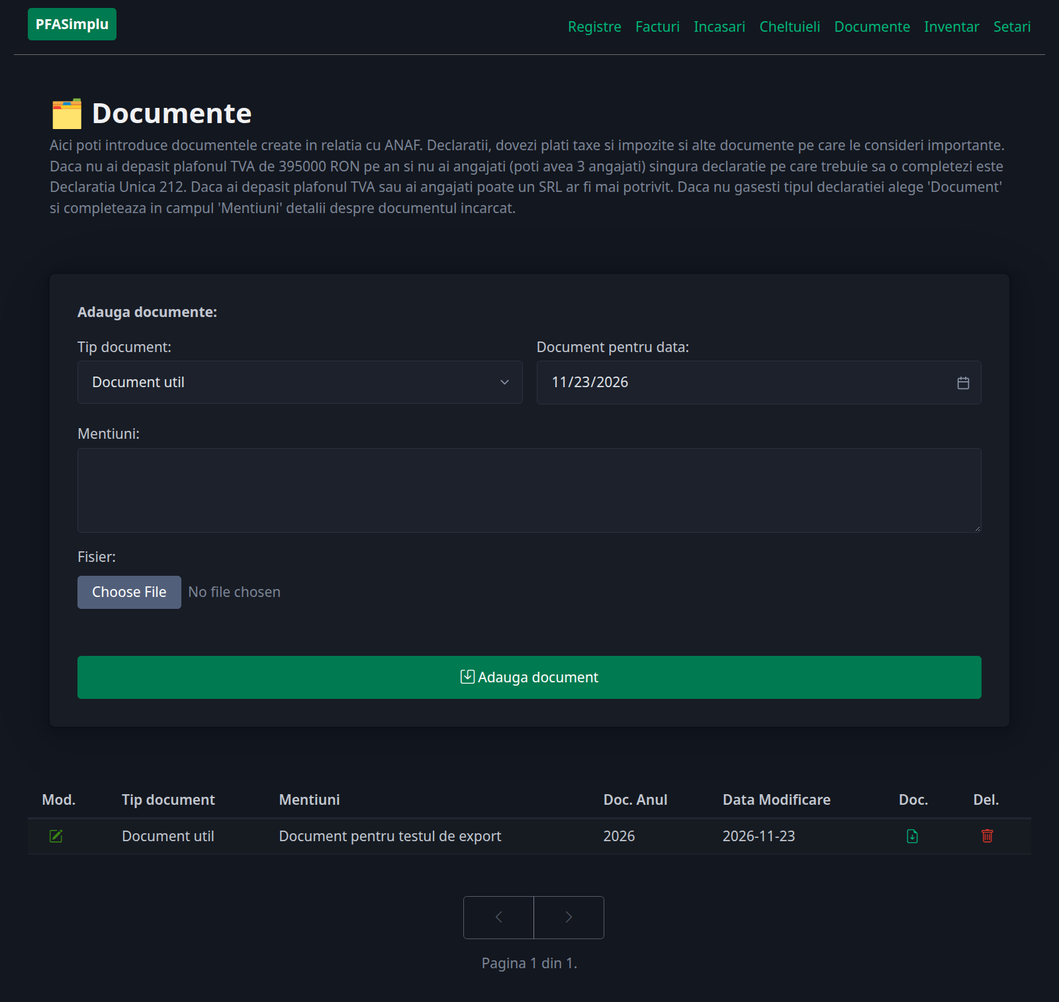
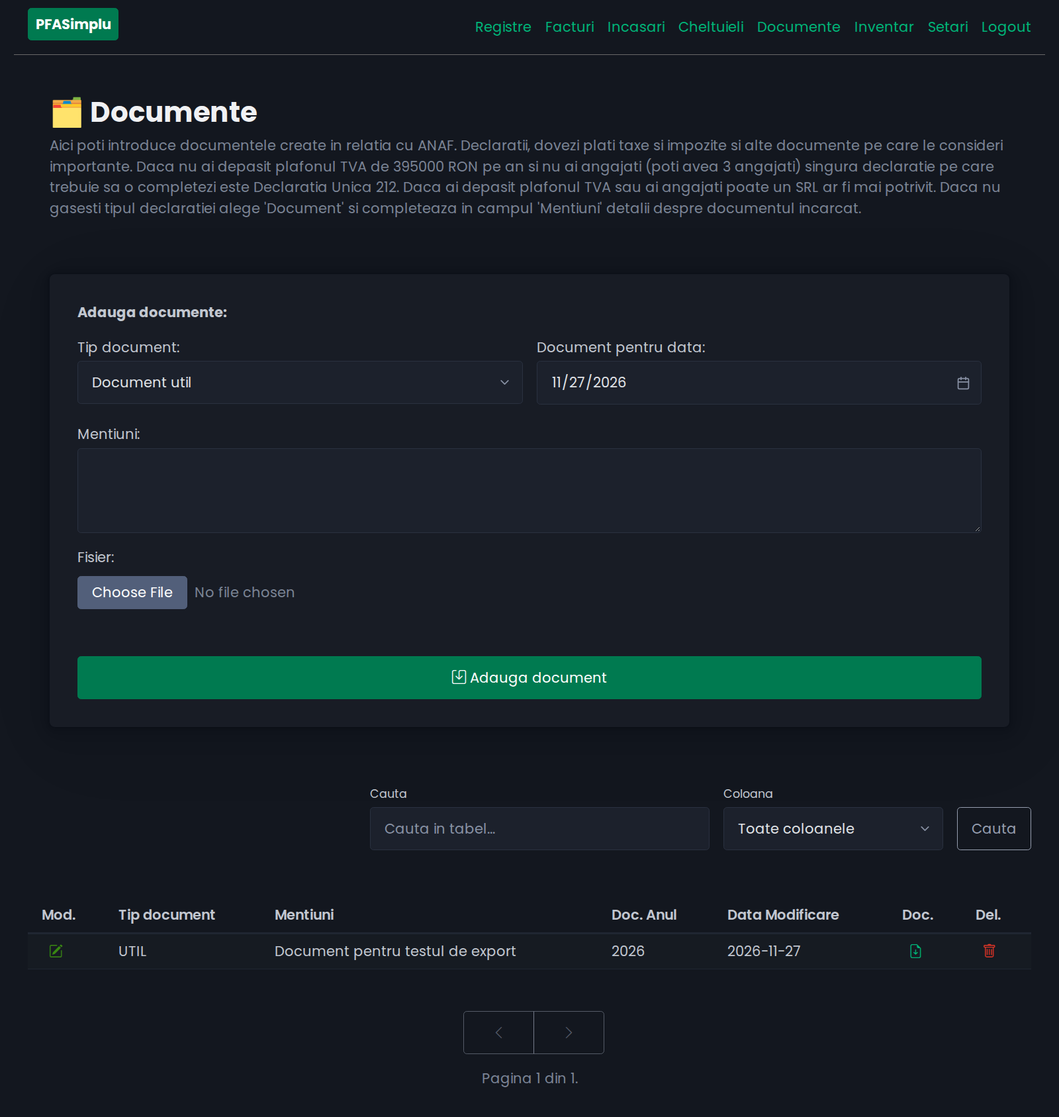
update readme pics

diff --git a/README.md b/README.md
@@ -2,7 +2,7 @@
 
 ![GitHub all releases](https://img.shields.io/github/downloads/ClimenteA/PFASimplu/total?label=descarcari&style=for-the-badge)
 
-Aplicatie pentru simplificarea gestiunii contabilitatii facuta in partida simpla (versiunea 3).  
+Aplicatie pentru simplificarea gestiunii contabilitatii facuta in partida simpla (versiunea 3).
 
 <!-- START doctoc generated TOC please keep comment here to allow auto update -->
 <!-- DON'T EDIT THIS SECTION, INSTEAD RE-RUN doctoc TO UPDATE -->
@@ -22,6 +22,7 @@ Aplicatie pentru simplificarea gestiunii contabilitatii facuta in partida simpla
   - [Servicii cumparate din UE / non-UE (taxare inversa)](#servicii-cumparate-din-ue--non-ue-taxare-inversa)
 - [Documente](#documente)
 - [TVA intracomunitar: D301, D390 si Jurnal de cumparari](#tva-intracomunitar-d301-d390-si-jurnal-de-cumparari)
+  - [D390 VIES pentru clienti UE (vanzari)](#d390-vies-pentru-clienti-ue-vanzari)
 - [Inventar](#inventar)
 - [Registre](#registre)
 - [Actualizare aplicatie](#actualizare-aplicatie)
@@ -42,6 +43,7 @@ Aplicatie pentru simplificarea gestiunii contabilitatii facuta in partida simpla
 - Impozitare in sistem real (fara norma de venit);
 - Nu au depasit pragul TVA (venituri sub 395k RON pe an);
 - Sunt prestatori de servicii;
+- Incaseaza numerar doar B2B maximum 5k/zi ron de la un client SRL/PFA (nu au casa de marcat);
 
 Aplicatia te ajuta sa:
 - creezi facturi: e-factura (fara TVA), facturi PDF in mai multe limbi si valute;
@@ -50,6 +52,7 @@ Aplicatia te ajuta sa:
 - arhivezi declaratiile depuse la ANAF;
 - calculeaza automat taxele si impozitele datorate in functie de incasari/cheltuieli;
 - calculeaza automat TVA-ul datorat pentru servicii cumparate din UE/non-UE (taxare inversa) si genereaza declaratiile D301/D390 + Jurnalul de cumparari, daca ai cod special de TVA intracomunitar (art. 317);
+- genereaza D390 VIES (tip P) si Jurnalul de vanzari pentru facturile emise catre clienti UE marcati „Client UE VIES";
 
 
 ## Poate aplicatia sa faca X,Y,Z?
@@ -201,21 +204,23 @@ Docker pornit la boot, aplicatia revine singura dupa restartul calculatorului
 
 Ordinea conteaza: aplicatia foloseste datele din `Setari` in toate celelalte pagini (antetul facturilor, IBAN-ul in moneda facturii, calculele de taxe, IBAN-ul trezoreriei pentru TVA).
 
+Toate tabelele (Facturi, Incasari, Cheltuieli, Documente, Inventar) au un formular de cautare `Cauta` / `Coloana` si paginare cate **20 de inregistrari pe pagina** - cautarea se face pe coloana aleasa sau pe toate coloanele, iar filtrele active se pastreaza la paginare. Butoanele CSV/XLSX descarca **toate** inregistrarile contului, nu doar pagina curenta. Coloana `Data Modificare` arata data ultimei modificari a inregistrarii.
+
 **1. Prima deschidere - completeaza Setari**
 
-Deschide aplicatia, autentifica-te (sau inregistreaza-te la prima folosire) si mergi intai in pagina `Setari`: numele PFA-ului, CIF, adresa, localitatea (aleasa din sugestii), conturile IBAN (unul per moneda: RON, EUR etc.), codul CAEN. Bifeaza scutirile doar daca ai statut special (pensionar, persoana cu handicap etc.). Daca ai cod special de TVA intracomunitar (art. 317), deschide sectiunea `TVA intracomunitar (D301/D390)` si completeaza codul - IBAN-ul trezoreriei se completeaza automat la alegerea localitatii. Salveaza. Fara acest pas, facturile nu au datele emitentului corecte.
+Deschide aplicatia, autentifica-te (sau inregistreaza-te la prima folosire) si mergi intai in pagina `Setari`: numele PFA-ului, CIF, Nr.Reg.Com., telefon, email, adresa, localitatea (aleasa din sugestii), codul CAEN principal (si, optional, CAEN-uri secundare sub `Adauga CAEN-uri Secundare`) si conturile IBAN (unul per moneda: RON, EUR etc., cu butoane `+ Adauga cont IBAN` / 🗑 pentru stergere). Bifeaza separat `Scutit CAS`, `Scutit CASS` si `Scutit Impozit` doar daca ai statut special (pensionar, persoana cu handicap, profesie liberala cu casa de asigurari proprie etc.). Daca ai cod special de TVA intracomunitar (art. 317), deschide sectiunea `TVA intracomunitar (D301/D390)` si completeaza codul - IBAN-ul trezoreriei se completeaza automat la alegerea localitatii. Salveaza. Fara acest pas, facturile nu au datele emitentului corecte.
 
 **2. Emite prima factura (pagina Facturi)**
 
-Completeaza clientul, seria si numarul (propuse automat: prima factura primeste seria `INV` si numarul `1`, apoi se continua seria existenta cu numarul urmator - poti schimba seria si numarul), articolele (denumire, UM, cantitate, pret), tipul facturii (e-factura pentru B2B in Romania, sau PDF in alta limba/valuta pentru extern). La salvare aplicatia genereaza automat PDF-ul facturii (si XML-ul UBL pentru e-factura) si le salveaza cu un prefix-id de 8 caractere. Le descarci din coloanele XML/PDF ale tabelului.
+Completeaza clientul, seria si numarul (propuse automat: prima factura primeste seria `INV` si numarul `1`, apoi se continua seria existenta cu numarul urmator - poti schimba seria si numarul), articolele (denumire, UM, cantitate, pret), tipul facturii (e-factura pentru B2B in Romania, sau PDF in alta limba/valuta pentru extern), tipul tranzactiei (💳 `BANCAR` sau 💵 `NUMERAR`) si, daca facturezi catre o firma din alt stat UE, comutatorul `Client UE VIES` - campul `CIF/CUI/VAT` trebuie atunci sa contina codul TVA cu prefixul tarii (ex. `ATU77164426`), nu un CIF roman; aplicatia adauga automat in factura mentiunea de taxare inversa in limba formularului ales. La salvare aplicatia genereaza automat PDF-ul facturii (si XML-ul UBL pentru e-factura) si le salveaza cu un prefix-id de 8 caractere. Le descarci din coloanele XML/PDF ale tabelului.
 
 **3. Inregistreaza incasarea (pagina Incasari)**
 
-Cand intra banii: din pagina `Facturi`, click pe 💳 (`Incasata`) in dreptul facturii - formularul de incasare se completeaza automat (suma, valuta, client), iar PDF-ul facturii devine document justificativ atasat incasarii. Pentru incasari fara factura emisa in aplicatie, completezi formularul din `Incasari` si urci documentul justificativ (extras de cont, chitanta; mai multe documente → un zip). Conversia in RON se face automat la cursul BNR din ultima zi bancara inaintea datei incasarii.
+Cand intra banii: din pagina `Facturi`, click pe 💳 in dreptul facturii - formularul de incasare se completeaza automat (nume incasare, suma, valuta, client, tip tranzactie), iar PDF-ul facturii devine document justificativ atasat incasarii. O factura care are deja incasare nu mai poate avea una a doua (iconita e dezactivata, cu avertisment). Pentru incasari fara factura emisa in aplicatie, completezi formularul din `Incasari` (`Sursa venit`, `Nume incasare`, `Suma`, `Valuta`, `Tip tranzactie`, `Data incasarii`) si urci documentul justificativ (extras de cont, chitanta; mai multe documente → un zip). Conversia in RON se face automat la cursul BNR din ultima zi bancara inaintea datei incasarii. Coloana `VIES` arata daca incasarea provine dintr-o factura cu `Client UE VIES` - pentru acestea se depune lunar D390 (vezi [D390 VIES pentru clienti UE](#d390-vies-pentru-clienti-ue-vanzari)).
 
 **4. Inregistreaza cheltuielile (pagina Cheltuieli)**
 
-De fiecare data cand cumperi ceva pentru activitatea PFA-ului: urci factura/bonul, alegi deductibilitatea (integral, partial 50%/2%, mijloc fix cu amortizare, obiect de inventar), iar pentru servicii din UE/non-UE alegi originea furnizorului - TVA-ul prin taxare inversa se calculeaza singur. Obiectele de inventar si mijloacele fixe apar automat in pagina [Inventar](#inventar) cu numar de inventar; pentru mijloacele fixe se genereaza fisa de mijloc fix (PDF), iar amortizarea lunara apare in Registrul fiscal.
+De fiecare data cand cumperi ceva pentru activitatea PFA-ului: urci factura/bonul, alegi deductibilitatea (integral, obiect de inventar, mijloc fix peste 5000 RON cu amortizare, sau una din limitele speciale: 50% pentru autovehicule/chirii/utilitati folosite si personal, 2% mese protocol, burse private max. 5%, sport/fitness max. 100 EUR/an, pensie pilon III / ocupationala / PEPP / ETF / asigurari medicale private max. 400 EUR/an, salarii, ajutoare pentru angajati etc.), completezi `Tip tranzactie` (bancar/numerar) si, pentru servicii din UE/non-UE, alegi `Origine furnizor` - TVA-ul prin taxare inversa se calculeaza singur. Pentru mijloace fixe poti bifa optiuni suplimentare care modifica amortizarea: sediu social folosit si in scop personal (50%), autoturism M1 (limita 1500 lei/luna) sau exceptie de la aceasta limita. Obiectele de inventar si mijloacele fixe apar automat in pagina [Inventar](#inventar) cu numar de inventar; pentru mijloacele fixe se genereaza fisa de mijloc fix (PDF), iar amortizarea lunara apare in Registrul fiscal.
 
 **5. Arhiveaza relatia cu ANAF (pagina Documente)**
 
@@ -223,9 +228,9 @@ Dupa ce depui Declaratia Unica (D212) sau platesti taxele, urci aici recipisa/do
 
 **6. Verifica situatia (pagina Registre)**
 
-Oricand, dar musai inainte de a completa Declaratia Unica: cardurile cu totaluri si taxele estimate (CAS, CASS, impozit), graficul pe luni si registrele obligatorii (jurnal, fiscal, inventar, jurnal de cumparari). Sumele se pot vedea in RON sau EUR, pe orice an.
+Oricand, dar musai inainte de a completa Declaratia Unica: cardurile cu totaluri (neincasate, incasari brut/net, cheltuieli) si taxele estimate (CAS, CASS, impozit), graficul pe luni si registrele obligatorii, in 5 taburi: `Registru jurnal`, `Registru fiscal`, `Registru inventar`, `Jurnal Cumparaturi` si `Jurnal Vanzari`. Sumele se pot vedea in RON sau EUR, pe orice an. Sub titlu gasesti si totalul platilor catre stat pe toti anii, totalul incasarilor nete si restul de plata.
 
-**7. Lunar, daca ai cod TVA intracomunitar:** filtreaza `Cheltuieli externe (TVA)` in pagina Cheltuieli pe luna trecuta, descarca zip-ul cu D301/D390 completate, depune-le pana pe 25, incarca recipisele in Documente si plateste TVA-ul la trezorerie (detalii in [TVA intracomunitar](#tva-intracomunitar-d301-d390-si-jurnal-de-cumparari)).
+**7. Lunar, daca ai cod TVA intracomunitar:** in pagina `Cheltuieli` filtreaza `Cheltuieli externe (TVA)` pe luna si anul trecute si descarca zip-ul cu D301/D390 completate, iar in pagina `Incasari` filtreaza `Incasari din UE (TVA)` si descarca D390 pentru facturile emise catre clienti UE. Depune declaratiile pana pe 25, incarca recipisele in Documente si plateste TVA-ul datorat la trezorerie (detalii in [TVA intracomunitar](#tva-intracomunitar-d301-d390-si-jurnal-de-cumparari)).
 
 **8. La final de an:** din `Setari` → `Exporta datele din aplicatie` alegi anul si primesti un zip cu toate documentele justificative, registrele in Excel, fisele mijloacelor fixe si `SUMAR.html` - arhiva completa pentru acel an, de pastrat pentru controlul ANAF.
 
@@ -238,11 +243,13 @@ Oricand, dar musai inainte de a completa Declaratia Unica: cardurile cu totaluri
 
 ## Setari 
 
-In pagina `Setari` trebuie sa adaugi datele pfa-ului tau.
+In pagina `Setari` trebuie sa adaugi datele pfa-ului tau: nume, CIF, Nr.Reg.Com., telefon, email, adresa, localitatea (din sugestii), codul CAEN principal si, optional, pana la 5 CAEN-uri secundare (butonul `+ Adauga CAEN-uri Secundare`).
+Sunt trei casute separate pentru scutiri: `Scutit CAS`, `Scutit CASS`, `Scutit Impozit` - bifeaza-le doar daca ai statut special (pensionar, persoana cu handicap, profesie liberala cu casa de asigurari proprie etc.); aplicatia foloseste bifa respective la calculul taxelor din pagina Registre.
 Poti sterge toate datele.
 Aceasta pagina trebuie completata la prima deschidere a aplicatiei.
 Cam rar vei schimba datele din aceasta pagina.
-Poti adauga mai multe conturi IBAN (RON, EUR, USD etc.), cate unul pentru fiecare moneda. La emiterea unei facturi se foloseste automat contul IBAN in moneda facturii, iar daca nu exista un cont in acea moneda, se foloseste contul de RON.
+Poti adauga mai multe conturi IBAN (RON, EUR, USD etc.), cate unul pentru fiecare moneda, direct in formular (butonul `+ Adauga cont IBAN`, respectiv iconita 🗑 pentru fiecare rand). La emiterea unei facturi se foloseste automat contul IBAN in moneda facturii, iar daca nu exista un cont in acea moneda, se foloseste contul de RON.
+Sectiunea `TVA intracomunitar (D301/D390)` e colapsata initial si se deschide cu butonul cu acelasi nume (vezi mai jos).
 
 Cu butonul `Exporta datele din aplicatie` descarci un zip cu datele pentru **anul selectat**. Zip-ul contine:
 - `documente/`, `cheltuieli/`, `incasari/` - documentele justificative urcate in aplicatie pentru anul selectat;
@@ -272,15 +279,19 @@ Poti prelua date CUI firma [de aici.](https://mfinante.gov.ro/apps/agenticod.htm
 Campurile: Serie, Numar factura vor fi completate automat in functie de facturile din trecut. 
 Seria + numarul facturii sunt verificate sa fie unice in baza de date.
 Pe masura ce completezi campul Nume Client vor aparea sugestii de clienti existenti - 
-cu un click poti selecta clientul si formularul va fi completat automat.
+cu un click poti selecta clientul si formularul va fi completat automat (nume, CIF, adresa, localitate, tip factura, tip tranzactie, valuta, date de contact si starea `Client UE VIES`).
 In campul Tip factura poti alege sa generezi factura in alta limba (non e-factura). 
-Poti schimba si valuta in care emiti factura.
+Poti schimba si valuta in care emiti factura (pentru e-factura si factura in romana valuta e blocata pe RON).
 
-Din coloanele XML si PDF poti descarca facturile generate. In dreapta sus a tabelului sunt 2 butoane pentru a descarca toate facturile in format CSV sau XLSX. In coloana Del. poti sterge o factura.
+Campul `Tip tranzactie` (💳 BANCAR / 💵 NUMERAR) se preia in incasarea generata din factura si apare in Registrul jurnal pe coloanele de incasari bancare, respectiv numerar.
 
-Din coloana **Incasata** (butonul 💳) treci direct la pagina [Incasari](#incasari) cu formularul precompletat din factura respectiva (suma, valuta, client), iar PDF-ul facturii este atasat automat ca document justificativ al incasarii.
+Comutatorul `Client UE VIES` se bifeaza doar pentru clienti persoane impozabile din alte state UE, care datoreaza ei TVA-ul prin taxare inversa. Campul `CIF/CUI/VAT` trebuie sa contina codul TVA complet cu prefixul tarii (ex. `ATU77164426`); un CIF roman (`RO...`) este respins. Aplicatia completeaza automat campul `Nota` cu mentiunea de taxare inversa in limba facturii alese si foloseste factura pentru D390 VIES (vezi [D390 VIES pentru clienti UE](#d390-vies-pentru-clienti-ue-vanzari)).
 
-Optional: Daca dai click pe Mai mult vei putea completa si alte date alte clientului precum:
+Din coloanele XML si PDF poti descarca facturile generate. In dreapta sus a tabelului sunt 2 butoane pentru a descarca toate facturile in format CSV sau XLSX. In coloana Del. poti sterge o factura. Tabelul are si cautare pe coloane si paginare; coloanele arata CIF/CUI/VAT, numele clientului, totalul, valuta, tipul tranzactiei, seria/numarul, emailul, telefonul, scadenta si starea incasarii.
+
+Din coloana **Incasata** (butonul 💳) treci direct la pagina [Incasari](#incasari) cu formularul precompletat din factura respectiva (nume incasare, suma, valuta, client, tip tranzactie), iar PDF-ul facturii este atasat automat ca document justificativ al incasarii. Daca factura are deja o incasare, butonul e dezactivat si trebuie stearsa incasarea existenta pentru a o adauga din nou.
+
+Optional: Daca dai click pe Mai mult vei putea completa si alte date ale clientului precum:
 Nr.Registru Comertului, Telefon, Email, Data Emitere factura (completata automat pentru ziua curenta), Data scadenta (calculata automat la 30 in viitor fata de ziua curenta) si Nota (unde poti adauga niste mentiuni in factura).
 
 
@@ -290,9 +301,11 @@ Nr.Registru Comertului, Telefon, Email, Data Emitere factura (completata automat
 
 ## Incasari
 
-Aici poti aduga documentele justificative (facturi, chitante) prin care ai incasat bani oferind produse sau servicii cu PFA-ul tau. Daca ai incasari din alte surse decat din emitere facturi/bonuri selecteaza o alta sursa a venitului. In cazul incasarilor in alta moneda decat RON conversia va fi facuta automat la cursul zilei anterioare setata in campul 'Data incasarii'. Completeaza 'Data incasare' doar daca ai incasat banii, lasa campul gol daca nu ai incasat inca (vei putea modifica mai tarziu). Sumele incasate in alta valuta (EUR,USD etc) - sumele sunt convertite in RON in functie de 'Data incasare'.
+Aici poti aduga documentele justificative (facturi, chitante) prin care ai incasat bani oferind produse sau servicii cu PFA-ul tau. Daca ai incasari din alte surse decat din emitere facturi/bonuri selecteaza o alta sursa a venitului. Completeaza campul `Nume incasare` (de obicei numele clientului + seria si numarul facturii). In cazul incasarilor in alta moneda decat RON conversia va fi facuta automat la cursul zilei bancare anterioare datei din campul `Data incasarii`. Completeaza 'Data incasare' doar daca ai incasat banii, lasa campul gol daca nu ai incasat inca (vei putea modifica mai tarziu) - in tabel aceste randuri apar cu `Neincasata`. Campul `Tip tranzactie` (💳 BANCAR / 💵 NUMERAR) e preluat automat de la factura cand incasarea vine din pagina Facturi si determina coloana din Registrul jurnal in care se inscrie suma.
 
-Cu un click intr-o celula din coloana Mod. poti modifica o incasare. Din coloana Doc. poti descarca o incasare si in coloana Del. poti sterge o incasare. Daca trebuie sa adaugi mai mult de un document poti crea un zip cu toate documentele necesare.
+Tabelul arata numele incasarii, coloana `VIES` (Da/Nu, dupa cum factura e marcata `Client UE VIES`), suma primita, valuta, suma in RON, tipul tranzactiei, data incasarii, sursa venitului si data modificarii; are cautare pe coloane si paginare. Cu un click in coloana Mod. poti modifica o incasare, din coloana Doc. o poti descarca, iar in coloana Del. o poti sterge. Daca trebuie sa adaugi mai mult de un document poti crea un zip cu toate documentele necesare.
+
+Filtrul `Incasari din UE (TVA)` de deasupra tabelului arata incasarile din facturile cu `Client UE VIES`, grupate pe luna emiterii si pe an; butonul `Descarca` genereaza D390 VIES completat, jurnalul de vanzari in Excel si facturile emise (vezi [D390 VIES pentru clienti UE](#d390-vies-pentru-clienti-ue-vanzari)).
 
 
 ![incasari](readmepics/incasari.png)
@@ -301,13 +314,25 @@ Cu un click intr-o celula din coloana Mod. poti modifica o incasare. Din coloana
 
 ## Cheltuieli
 
-Aici poti aduga documentele justificative (facturi, chitante) pentru cheltuielile pe care le-ai facut in scopul prestarii activitatii tale de PFA. Unele cheltuieli sunt integral deductibile: consumabile, plati servicii, achizitii bunuri sub 5000 RON etc. Altele sunt partial deductibile: 2% din baza de calcul pentru cheltuielile cu potentialii clienti (mancare, cadouri sub 100 RON, etc), 50% cheltuieli cu autovehicul/chirii/utilitati daca sunt folosite si in scop personal. Unele cheltuieli au nevoie de documente justificative in plus pe langa bonul sau factura care justifica cheltuiala. Cheltuielile care depasesc prag mijloc fix vor trebui amortizate in functie de codul de clasificare din tabelul de amortizare mijloace fixe. Achizitiile/Cheltuielile care nu isi pierd valoarea in timp cum ar fi terenuri, aur, case nu sunt deductibile. Daca trebuie sa adaugi mai mult de un document poti crea un zip cu toate documentele necesare.
+Aici poti aduga documentele justificative (facturi, chitante) pentru cheltuielile pe care le-ai facut in scopul prestarii activitatii tale de PFA. Campul `Tip tranzactie` (💳 BANCAR / 💵 NUMERAR) determina coloana din Registrul jurnal in care se inscrie plata.
 
-Campul Deductibila contine si cheltuielile deductibile partial care vor fi calculate automat in functie de datele existente in aplicatie.
+Campul `Deductibila` contine atat cheltuielile integral deductibile (consumabile, plati servicii, achizitii bunuri sub 5000 RON, salarii), cat si pe cele limitate, ale caror limite se calculeaza automat:
+
+- **Obiect de inventar (deductibil integral)** si **Mijloc fix peste 5000 RON (ded. integral cu amortizare)** - apar automat in [Inventar](#inventar);
+- **50%** pentru vehicule nefolosite exclusiv in activitate (art. 68 alin. 7 lit. k), inclusiv chirii/utilitati folosite si in scop personal;
+- **2% din baza de calcul** pentru mese protocol (cadouri sub 100 RON etc.);
+- **5% din baza de calcul** pentru burse private si **5% din totalul salariilor** pentru ajutoare acordate angajatilor;
+- **max. 100 EUR/an** pentru sport/sali de fitness;
+- **max. 400 EUR/an** pentru pensie pilon III, pensie ocupationala, PEPP, ETF si asigurari medicale private;
+- **max. 4000 EUR/an** pentru cotizatii voluntare la asociatii/organizatii si **max. 5% din brut** pentru contributii obligatorii.
+
+Pentru mijloacele fixe poti bifa `Sediu social folosit si in scop personal (amortizare 50%)`, `Autoturism M1 (limita 1.500 lei/luna)` sau `Exceptie de la limita de 1.500 lei/luna`. Unele cheltuieli au nevoie de documente justificative in plus pe langa bonul sau factura care justifica cheltuiala. Achizitiile care nu isi pierd valoarea in timp (terenuri, aur, case) nu sunt deductibile. Daca trebuie sa adaugi mai mult de un document poti crea un zip cu toate documentele necesare.
+
+Tabelul arata suma in valuta, suma in RON, suma dedusa in RON, TVA-ul autolichidat (cu badge 🇪🇺 / 🌍), tipul tranzactiei, data cheltuielii, tipul deductibilitatii si data modificarii; are cautare pe coloane si paginare. Regulile de deductibilitate si limitele sunt explicate pe larg in [Ghidul PFA in sistem real](GHID_PFA_SISTEM_REAL.md).
 
 ![cheltuieli](readmepics/cheltuieli.png)
 
-Atunci cand ai de adaugat un obiect de inventar cu valoarea peste 5000 RON trebuie sa selectezi `Mijloc fix peste 5000 RON (ded. integral cu amortizare)`. In campul nume cheltuiala poti vedea valorile pentru mijloace fixe. Campul Nume cheltuiala poate fi folosit pentru a filtra tipul cheltuielii.
+Atunci cand ai de adaugat un obiect de inventar cu valoarea peste 5000 RON trebuie sa selectezi `Mijloc fix peste 5000 RON (ded. integral cu amortizare)`. In campul `Nume cheltuiala` apar sugestii cu denumirile folosite anterior; cautarea din tabel filtreaza si pe acest camp (ca si pe celelalte coloane).
 
 Uite un exemplu pentru a amortiza o cheltuiala amortizabila cu un Laptop. 
 Cel mai apropiat de un laptop in tabel este valoarea `Calculatoare electronice` care are codul `2.2.9.` 
@@ -342,9 +367,9 @@ Odata salvata, cheltuiala apare automat in **Jurnalul de cumparari (TVA)** din p
 
 Aici poti introduce documentele create in relatia cu ANAF. Declaratii, dovezi plati taxe si impozite si alte documente pe care le consideri importante. Daca nu ai depasit plafonul TVA de 395000 RON pe an si nu ai angajati (poti avea 3 angajati) singura declaratie pe care trebuie sa o completezi este Declaratia Unica 212. Daca ai depasit plafonul TVA sau ai angajati poate un SRL ar fi mai potrivit. Daca nu gasesti tipul declaratiei alege 'Document util' si completeaza in campul 'Mentiuni' detalii despre documentul incarcat.
 
-In cazul dovezii platii de impozite (pdf-ul primit de la ghiseul.ro) si al declaratiei unice datele relevante sunt automat extrase din PDF-ul incarcat.
+In cazul dovezii platii de impozite (pdf-ul primit de la ghiseul.ro) si al declaratiei unice datele relevante sunt automat extrase din PDF-ul incarcat. Campul `Document pentru data` (implicit ziua curenta) se foloseste pentru anul in care se arhiveaza documentul; in tabel apare coloana `Doc. Anul`.
 
-Recipisele D301/D390 primite de la ANAF se incarca tot aici - tipul declaratiei, perioada, CIF-ul si indexul de incarcare se detecteaza automat din PDF. Declaratiile in sine se genereaza din pagina [Cheltuieli](#tva-intracomunitar-d301-d390-si-jurnal-de-cumparari).
+Recipisele D301/D390 primite de la ANAF se incarca tot aici - tipul declaratiei, perioada, CIF-ul si indexul de incarcare se detecteaza automat din PDF. Declaratiile in sine se genereaza din pagina [Cheltuieli](#tva-intracomunitar-d301-d390-si-jurnal-de-cumparari), respectiv [Incasari](#d390-vies-pentru-clienti-ue-vanzari). Tabelul are cautare pe coloane, paginare si coloana `Data Modificare`.
 
 ![documente](readmepics/documente.png)
 
@@ -352,7 +377,10 @@ Recipisele D301/D390 primite de la ANAF se incarca tot aici - tipul declaratiei,
 
 ## TVA intracomunitar: D301, D390 si Jurnal de cumparari
 
-Pentru PFA-urile cu **cod special de TVA intracomunitar (art. 317 Cod fiscal)** care cumpara servicii din UE sau din afara UE, TVA-ul se datoreaza in Romania prin **taxare inversa**: chiar daca furnizorul factureaza 0% TVA, beneficiarul calculeaza si plateste 21% la ANAF. Aplicatia automatizeaza tot fluxul:
+Pentru PFA-urile cu **cod special de TVA intracomunitar (art. 317 Cod fiscal)** aplicatia acopera doua fluxuri distincte:
+
+1. **cumpararea** de servicii din UE / afara UE, unde TVA-ul se datoreaza in Romania prin **taxare inversa** (furnizorul factureaza 0% TVA, beneficiarul calculeaza si plateste 21% la ANAF);
+2. **vanzarea** de servicii catre clienti persoane impozabile din UE (facturi marcate `Client UE VIES`), unde taxa e datorata de client in statul lui, iar tu depui doar D390 (informativ) - vezi [D390 VIES pentru clienti UE](#d390-vies-pentru-clienti-ue-vanzari).
 
 **Ce se depune:**
 
@@ -360,11 +388,12 @@ Pentru PFA-urile cu **cod special de TVA intracomunitar (art. 317 Cod fiscal)** 
 |---|---|---|---|
 | Furnizor din UE (Austria, Irlanda, Germania etc.) | Da - secțiunea 4 + secțiunea 4.1 | Da - tip S | Codul special de TVA intracomunitar |
 | Furnizor din afara UE (SUA, UK, Canada etc.) | Da - doar secțiunea 4 | Nu | Codul normal al PFA-ului (CIF) |
+| Client din UE (factura cu `Client UE VIES`) | Nu | Da - tip P (prestari de servicii) | Codul special de TVA intracomunitar |
 
 **Fluxul in aplicatie (pagina Cheltuieli, filtrul „Cheltuieli externe (TVA)"):**
 
 1. **Adaugi cheltuielile** cu origine UE/non-UE (vezi [Cheltuieli](#cheltuieli)) - cursul BNR, baza si TVA-ul se calculeaza automat;
-2. **Filtrezi pe luna** - din selectorul „Cheltuieli externe (TVA)" de deasupra tabelului alegi luna de raportare (lunile cu facturi UE/non-UE, grupate dupa data facturii); tabelul arata doar facturile pentru care trebuie completate declaratiile;
+2. **Filtrezi pe luna si an** - din selectorul „Cheltuieli externe (TVA)" de deasupra tabelului alegi luna de raportare (lunile cu facturi UE/non-UE, grupate dupa data facturii, sau `UE + non-UE, tot anul`); selectorul `Anul` apare dupa activarea filtrului si permite alegerea altui an; tabelul arata doar facturile pentru care trebuie completate declaratiile;
 3. **Descarci** - un click pe butonul `Descarca` si primesti un zip cu declaratiile completate in **Markdown**, **grupate in cate un folder pentru fiecare cod fiscal**, cu prefix dupa tipul codului:
    - **`TVA-<cod>`** (codul special de TVA intracomunitar, art. 317): **D301** (sectiunile 4 + 4.1) + **D390 VIES** (tip S, cod operator fara prefixul tarii, baza rotunjita la intreg) + jurnalul de cumparari in **Excel** doar cu facturile UE + **facturile furnizorilor** (subfolder `facturi/`);
    - **`CIF-<cod>`** (codul normal al PFA-ului): **D301** (doar sectiunea 4) + jurnalul de cumparari in **Excel** doar cu facturile non-UE + **facturile furnizorilor** (subfolder `facturi/`);
@@ -380,7 +409,23 @@ Daca lipsesc date din Setari (cod TVA intracomunitar, IBAN trezorerie) apar aver
 
 **Jurnalul de cumparari** este disponibil si in pagina [Registre](#registre) (tab `Jurnal Cumparaturi`), cu descarcare CSV/XLSX pe luna sau pe tot anul. Totalul documentului include TVA autolichidata, chiar daca furnizorul a facturat 0% TVA.
 
-> **Atentie:** codul TVA intracomunitar (art. 317) nu confera calitatea de platitor normal de TVA (art. 316). Aceasta functionalitate acopera regimul art. 317 (D301/D390), nu decontul D300. Pentru situatii speciale confirma tratamentul cu contabilul.
+### D390 VIES pentru clienti UE (vanzari)
+
+Pentru facturile emise catre clienti persoane impozabile stabiliti in alte state UE, locul prestarii e in statul clientului, iar **clientul datoreaza TVA-ul prin taxare inversa**. Tu nu colectezi si nu platesti TVA pentru aceste facturi, dar trebuie sa le raportezi lunar in **D390 VIES**, la linia **P - Prestari intracomunitare de servicii**.
+
+Fluxul in aplicatie:
+
+1. **Marchezi ca `Client UE VIES`** in formularul de factura (pagina [Facturi](#facturi)) si completezi `CIF/CUI/VAT` cu codul TVA al clientului, cu prefixul tarii (ex. `ATU77164426`); aplicatia adauga automat mentiunea de taxare inversa in factura;
+2. **Inregistrezi incasarea** (pagina [Incasari](#incasari)) - coloana `VIES` devine `Da`;
+3. **Filtrezi** in pagina Incasari optiunea `Incasari din UE (TVA)` pe luna (sau `Clienti UE, tot anul`) si pe an;
+4. **Descarci** zip-ul cu **D390 completat in Markdown** (cu ghid pas cu pas pentru aplicatia ANAF), **jurnalul de vanzari in Excel** si **facturile emise** catre clientii UE (PDF/XML);
+5. **Depui D390** pana pe 25 inclusiv a lunii urmatoare, online, cu certificat digital, in SPV-ul deschis pe codul de TVA intracomunitar, apoi descarci recipisa si o arhivezi in [Documente](#documente).
+
+Declaratia contine codul tau de art. 317 (calitatea „Persoane inregistrate conform art. 317"), codurile clientilor **fara prefixul tarii** si baza in lei rotunjita la intreg. Nu se completeaza D301 si nicio suma de plata.
+
+> **Atentie:** aplicatia genereaza codul **P** (prestari de servicii). Daca vinzi **bunuri** livrate intracomunitar, codul corect e **L** si trebuie corectat in aplicatia ANAF inainte de depunere. Nu se depune D390 pentru clienti scutiti de TVA in statul membru al clientului sau pentru persoane neimpozabile. Vezi [Ghidul PFA in sistem real](GHID_PFA_SISTEM_REAL.md) pentru detalii.
+
+> **Atentie generala:** codul TVA intracomunitar (art. 317) nu confera calitatea de platitor normal de TVA (art. 316). Aceasta functionalitate acopera regimul art. 317 (D301/D390), nu decontul D300. Pentru situatii speciale confirma tratamentul cu contabilul.
 
 
 
@@ -389,7 +434,7 @@ Daca lipsesc date din Setari (cod TVA intracomunitar, IBAN trezorerie) apar aver
 Aici gasesti tabelul cu toate obiectele de inventar si mijloacele/activele fixe achizitionate pana acum. Tot aici poti scoate din inventar un obiect de inventar sau mijloc fix. Daca ai vandut obiectul de inventar/mijlocul fix va trebui sa-l introduci si la incasari la Sursa venit: 'Venit din alte surse'. 
 
 Pentru a scoate un obiect de inventar din uz trebuie sa dai click in coloana Mod. pe iconita de modificare. 
-Formularul va fi completat cu datele salvate anterior pe care acum le poti modifica si salva (bifezi „Scoate din uz").
+Formularul va fi completat cu datele salvate anterior pe care acum le poti modifica si salva: bifezi „Scoate din uz", alegi `Modalitatea iesirii din uz` (Casat, Vandut, Donat, Pierdut), `Data iesirii din uz` si urci documentul justificativ (proces-verbal de scoatere din functiune/declasare, factura de vanzare etc.). In tabel, coloana `In uz?` devine `Nu`, iar coloana `Justif.` arata documentul atasat; coloana `Data Modificare` arata ultima actualizare. Tabelul are si cautare pe coloane si paginare.
 
 Registrul-inventar se descarca din pagina [Registre](#registre) (tab `Registru inventar`, iconitele CSV/XLSX), direct ca fisier CSV sau XLSX.
 
@@ -400,9 +445,9 @@ Registrul-inventar se descarca din pagina [Registre](#registre) (tab `Registru i
 
 ## Registre
 
-Aici ai o vedere de ansamblu asupra incasarilor, cheltuielilor precum si taxele/impozitele de platit pentru anul selectat, venituri vs cheltuieli pe ani, notificari facturi neincasate, declaratii de urcat in SPV etc. Totodata ai disponibile si registrele contabile obligatorii pe care trebuie sa le ai in relatia cu ANAF, in tab-urile: `Registru jurnal`, `Registru fiscal`, `Registru inventar` si `Jurnal Cumparaturi`.
+Aici ai o vedere de ansamblu asupra incasarilor, cheltuielilor precum si taxele/impozitele de platit pentru anul selectat, venituri vs cheltuieli pe ani, notificari facturi neincasate, declaratii de urcat in SPV etc. Totodata ai disponibile si registrele contabile obligatorii pe care trebuie sa le ai in relatia cu ANAF, in 5 taburi: `Registru jurnal`, `Registru fiscal`, `Registru inventar`, `Jurnal Cumparaturi` si `Jurnal Vanzari`.
 
-Poti alege anul si sa vezi sumele din grafic si total carduri in EUR sau RON.
+Selectoarele de langa titlu aleg **anul** (doar anii cu inregistrari) si moneda de afisare (`In RON` / `In EUR`) pentru grafic si pentru toate cardurile. Cardurile arata total neincasate (cu `E ok 👍` daca nu ai), total incasari brut, total incasari net, total cheltuieli si, in a doua rand, total taxe/impozite, pensie (CAS), sanatate (CASS) si impozit pe venit. Sub titlu vezi si totalul platilor catre stat pe toti anii, totalul incasarilor nete pe toti anii si restul de plata.
 
 Taxele se calculeaza pe regulile din anul selectat (vezi `src/utils/calcule.py`). Cei scutiti (profesii liberale cu casa de asigurari proprie, pensionari etc.) pot bifa scutirile in [Setari](#setari).
 
@@ -412,13 +457,15 @@ Poti descarca registrele dand click fie pe iconita de csv sau xlsx. Se descarca 
 
 In tab-ul **Jurnal Cumparaturi** gasesti **Jurnalul de cumpărări**: daca ai cheltuieli cu servicii din UE/non-UE (taxare inversa), jurnalul pentru cumparari cu referinta `15-16`, baza impozitabila, TVA autolichidata si totalurile, descarcabil in CSV sau XLSX (pe luna sau pe tot anul).
 
+In tab-ul **Jurnal Vanzari** gasesti facturile emise catre clienti `Client UE VIES`, cu valoarea in lei, data incasarii si documentul justificativ; acelasi jurnal e inclus si in zip-ul D390 descris mai sus.
+
 
 ![registre](readmepics/registre.png)
 
 
 ## Actualizare aplicatie
 
-Versiunea pe care o rulezi apare in subsolul paginii `Setari` (ex. `PFASimplu V3.0.0`). Cand exista o versiune noua, langa ea apare `(disponibil V...)` impreuna cu un link catre [GitHub Releases](https://github.com/ClimenteA/PFASimplu/releases), de unde o poti descarca. Aplicatia nu descarca si nu instaleaza nimic automat.
+Versiunea pe care o rulezi apare in subsolul paginii `Setari` (ex. `PFASimplu V3.0.4`). Cand exista o versiune noua, langa ea apare `(disponibil V...)` impreuna cu un link catre [GitHub Releases](https://github.com/ClimenteA/PFASimplu/releases), de unde o poti descarca. Aplicatia nu descarca si nu instaleaza nimic automat.
 
 **Actualizare executabil standalone:** descarca arhiva `.zip` pentru sistemul tau de operare, dezarhiveaza-o si ruleaza executabilul nou. Executabilul vechi poate fi sters: baza de date, documentele si celelalte date raman in directorul de date al sistemului (`%LOCALAPPDATA%\PFASimplu`, `~/Library/Application Support/PFASimplu` sau `~/.local/share/pfasimplu`), deci nu sunt afectate. Ca masura de precautie, inainte de upgrade copiaza acest director (backup) si fa un export al datelor din `Setari` → `Exporta datele din aplicatie`. Arhiva este descarcata prin HTTPS, dar binarul nu este semnat (vezi sectiunea de distributie standalone). Pentru Docker sau rulare din sursa folosesti procedura de mai jos.
 
@@ -506,6 +553,8 @@ Radacina repo-ului contine configuratia proiectului, documentatia si fisierele D
 
 | Folder / fisier | Rol |
 |---|---|
+| `README.md` | documentatia aplicatiei (instalare, ghid de utilizare, depanare) |
+| `GHID_PFA_SISTEM_REAL.md` | ghid legislativ: registre, declaratii, deductibilitati, TVA, cu trimiteri la actele normative |
 | `src/` | sursele aplicatiei: app-urile Django, `core/`, `templates/`, `static/`, `tests/` |
 | `appdata/` | datele locale: `db/stocare.db` (SQLite), `files/` (fisiere urcate/generate) si `logs/pfasimplu.log`; ignorate de git si montate in Docker |
 | `Dockerfile`, `docker-entrypoint.sh` | imaginea aplicatiei (migrari + collectstatic la pornire) |
@@ -519,19 +568,19 @@ Radacina repo-ului contine configuratia proiectului, documentatia si fisierele D
 |---|---|
 | `setari/` | datele PFA-ului, IBAN-uri, cod TVA intracomunitar, export/stergere date |
 | `facturi/` | emitere facturi: PDF multi-limba + XML e-factura (UBL) |
-| `incasari/` | incasari + documente justificative, conversie BNR |
-| `cheltuieli/` | cheltuieli, deductibilitate, amortizare, taxare inversa TVA |
+| `incasari/` | incasari + documente justificative, conversie BNR, filtru UE si D390 pentru clienti UE |
+| `cheltuieli/` | cheltuieli, deductibilitate, amortizare, taxare inversa TVA, D301/D390 pentru achizitii |
 | `documente/` | arhiva ANAF (D212, dovezi plata, recipise D301/D390) cu parsing PDF |
-| `inventar/` | obiecte de inventar si mijloace fixe |
-| `registre/` | dashboard + registrele contabile, exporturi CSV/XLSX |
+| `inventar/` | obiecte de inventar si mijloace fixe, iesire din uz |
+| `registre/` | dashboard + registrele contabile (inclusiv Jurnal Vanzari), exporturi CSV/XLSX |
 | `conturi/` | login/inregistrare/logout (obligatorii) si izolarea datelor pe cont |
-| `utils/` | calcule taxe (`calcule.py`), TVA (`tva.py`, `tva_documente.py`), curs BNR (`valuta.py`), fisiere (`files.py`), PDF-uri (`mijloc_fix_pdf.py`) |
-| `templates/` + `static/` | UI: PicoCSS + Alpine.js, typeahead; fara build step de frontend |
+| `utils/` | calcule taxe (`calcule.py`), TVA si generare D301/D390 (`tva.py`, `tva_documente.py`), curs BNR (`valuta.py`), cautare/paginare/export (`views.py`), fisiere (`files.py`), PDF-uri (`mijloc_fix_pdf.py`) |
+| `templates/` + `static/` | UI dark: PicoCSS + Alpine.js, typeahead; fara build step de frontend |
 | `tests/` | teste end-to-end Playwright (vezi mai jos) |
 
 ### Teste end-to-end
 
-Testele ruleaza un scenariu complet pe anul curent (Setari → Facturi → Incasari → Cheltuieli, inclusiv taxare inversa si mijloace fixe) intr-un browser real, pe o **bază de date izolata** (`src/tests/.runtime/test.db`) - datele reale nu sunt atinse. Detalii in [tests/README.md](src/tests/README.md).
+Testele ruleaza un scenariu complet pe anul curent (Setari → Facturi → Incasari → Cheltuieli, inclusiv taxare inversa, clienti UE VIES si mijloace fixe) intr-un browser real, pe o **bază de date izolata** (`src/tests/.runtime/test.db`) - datele reale nu sunt atinse. Sunt acoperite si validarea codului TVA pentru clientii UE, autocompletarea clientilor salvati si generarea D390 pentru incasarile din UE. Detalii in [tests/README.md](src/tests/README.md).
 
 ```bash
 make test-e2e           # instaleaza Chromium (daca lipseste) + ruleaza toate testele
